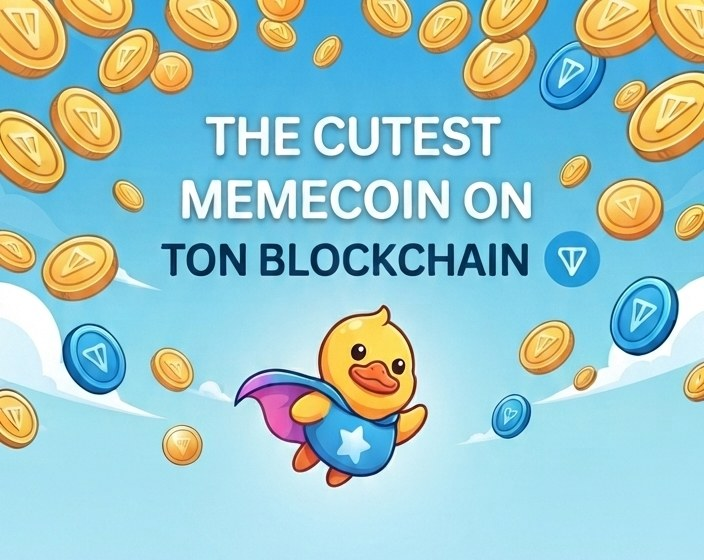
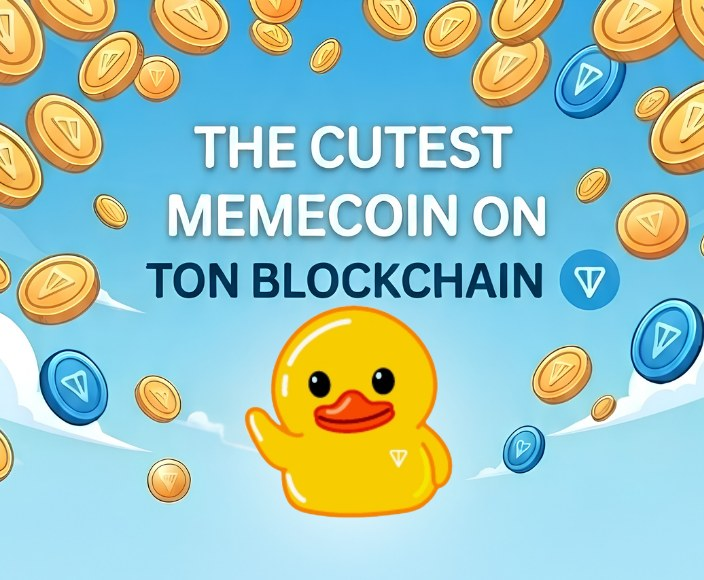
Remove the top CA row, swap utya's hero art, add a cache-control safeguard
- Verified the website/Telegram/X pills and Theses section were never
  actually removed — the code was intact. Added meta cache-control
  tags as a best-effort mitigation since GitHub Pages doesn't let us
  set real HTTP headers, and stale-cache reports have come up
  repeatedly this session.
- Dropped the redundant contract-address chip from the top metarow —
  the tap-to-copy Contract row already added near the Buy button
  covers that now, so there's only one.
- Replaced utya's hero art with the new duck illustration, re-cropped
  to its actual content and matched to its own background color.

diff --git a/index.html b/index.html
@@ -4,6 +4,15 @@
 <meta charset="utf-8" />
 <meta name="viewport" content="width=device-width, initial-scale=1, maximum-scale=1, viewport-fit=cover" />
 <meta name="theme-color" content="#0E1621" />
+<!-- GitHub Pages doesn't let us set real Cache-Control headers, and both
+     Telegram's WebView and GH Pages' own CDN have repeatedly served a
+     stale copy of this file after a deploy — this is a best-effort ask
+     to not cache the document itself (unlike a browser HTTP header, a
+     meta tag isn't guaranteed to be honored, but it's the only lever
+     available here). -->
+<meta http-equiv="Cache-Control" content="no-cache, no-store, must-revalidate" />
+<meta http-equiv="Pragma" content="no-cache" />
+<meta http-equiv="Expires" content="0" />
 <link rel="icon" type="image/png" href="icon.png" />
 <title>TON Board</title>
 <link rel="preconnect" href="https://fonts.googleapis.com" />
@@ -265,10 +274,6 @@
   .tokhead .nm{font-size:17px;font-weight:700;letter-spacing:-.01em}
   .tokhead .tk{color:var(--muted);font-size:12px;margin-top:1px}
   .metarow{display:flex;flex-wrap:wrap;align-items:center;gap:8px;margin:2px 0 14px}
-  .addrrow{display:flex;align-items:center;gap:5px;color:var(--muted);font-size:11px}
-  .addrrow svg{width:12px;height:12px;opacity:.6;flex:none}
-  .addrrow.copied{color:var(--up)}
-  .addrrow.copied svg{opacity:1}
 
   .statgrid{display:grid;grid-template-columns:1fr 1fr;gap:10px;margin-top:14px}
   .stat .k{font-size:10px;color:var(--muted);text-transform:uppercase;letter-spacing:.05em;
@@ -769,13 +774,7 @@
                <div class="tk addr">$${esc(coin.symbol)}</div>
              </div>
            </div>`}
-      <div class="metarow">
-        <div class="addrrow" onclick="window.copyAddr?.('${esc(coin.tokenAddress)}', this)">
-          <span class="addr addrtext">${esc(truncAddr(coin.tokenAddress))}</span>
-          <svg viewBox="0 0 24 24" fill="none" stroke="currentColor" stroke-width="2"><rect x="9" y="9" width="12" height="12" rx="2"/><path d="M5 15V5a2 2 0 0 1 2-2h10"/></svg>
-        </div>
-        ${iconLinks.join("")}
-      </div>
+      ${iconLinks.length ? `<div class="metarow">${iconLinks.join("")}</div>` : ""}
 
       <div class="dcard">
         <h3>About</h3>

diff --git a/content.js b/content.js
@@ -72,6 +72,6 @@
 const TOKEN_CONTENT = {
   "EQBaCgUwOoc6gHCNln_oJzb0mVs79YG7wYoavh-o1ItaneLA": {
     hero: "content/heroes/utya.jpg",
-    bgColor: "#b8e6f6",
+    bgColor: "#b9e6fa",
   },
 };
